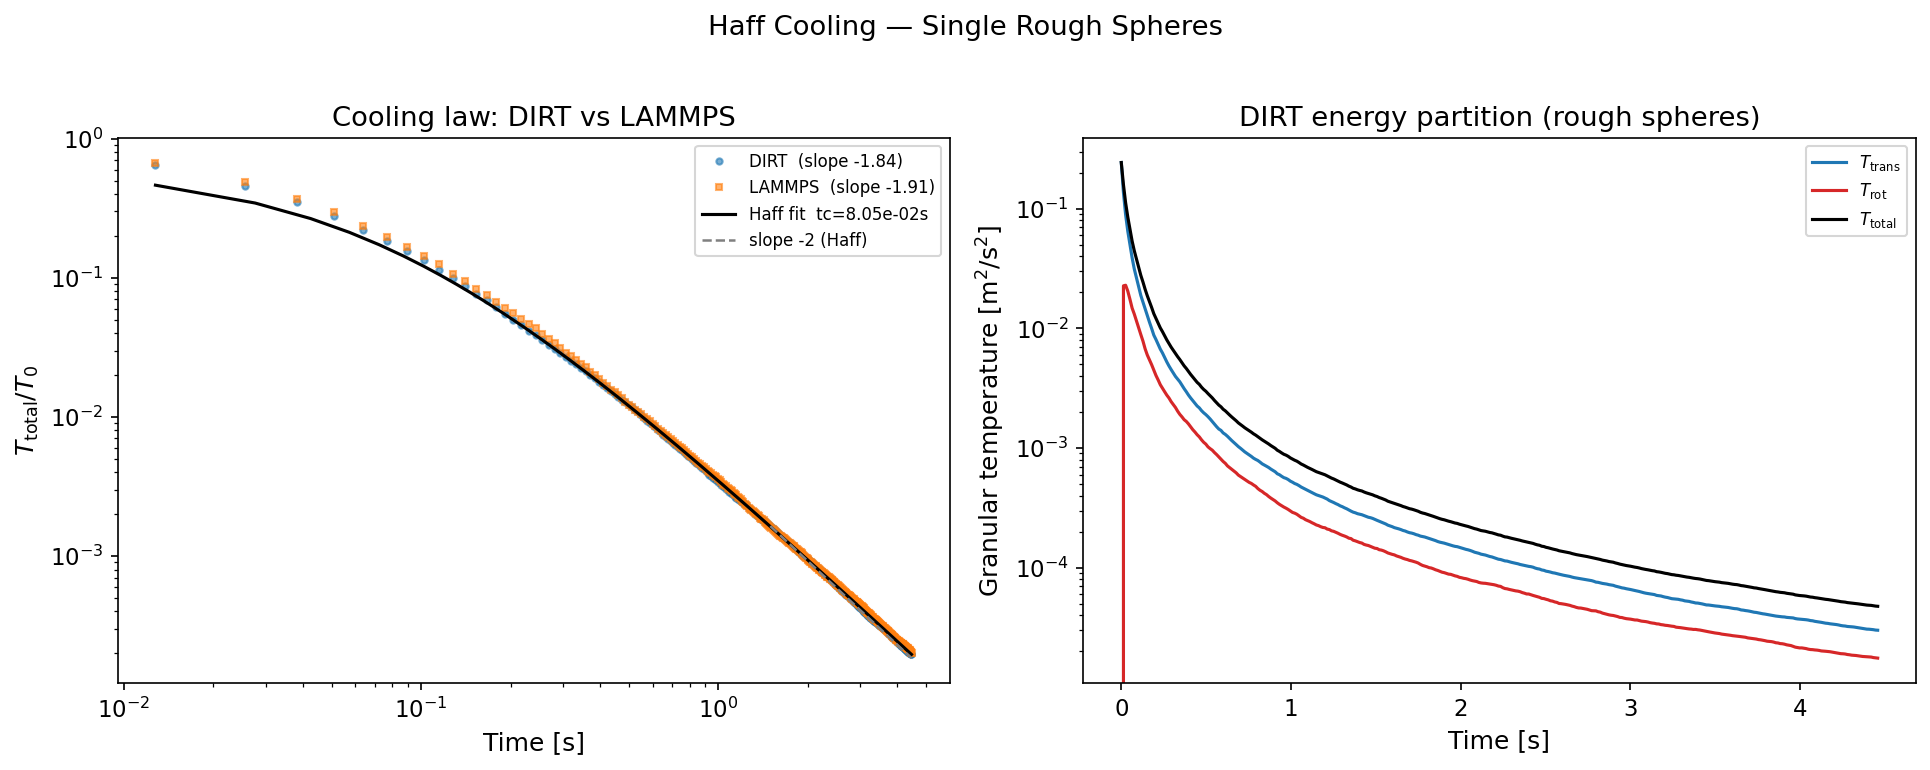
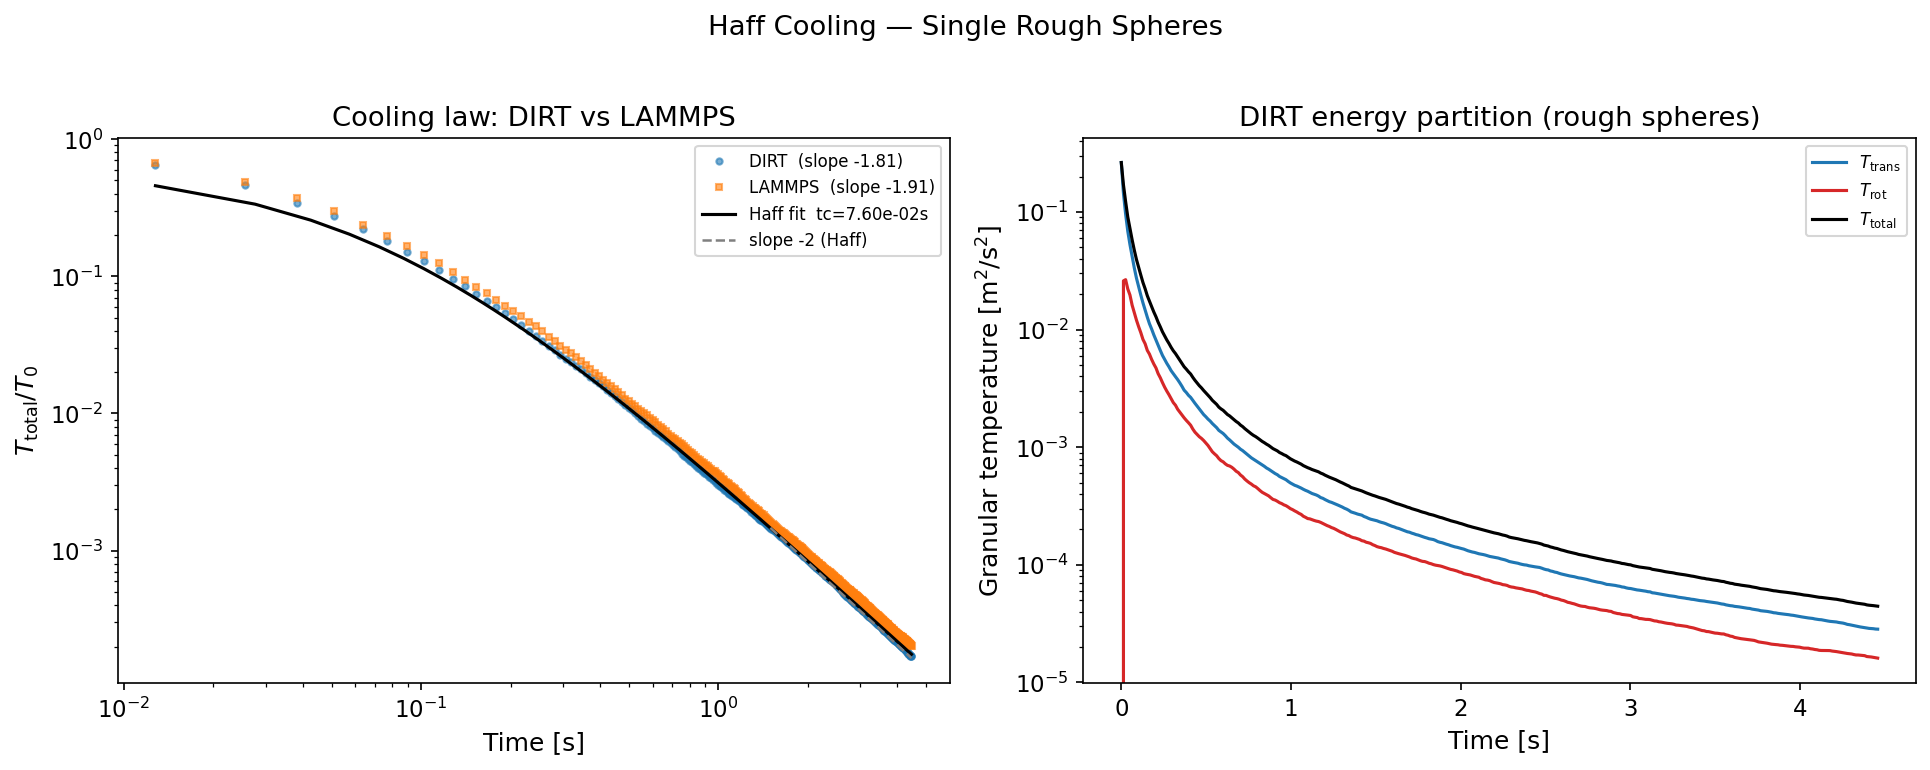
Update quat flag

diff --git a/crates/dirt_granular/src/rotational.rs b/crates/dirt_granular/src/rotational.rs
@@ -18,7 +18,7 @@
 use grass_app::prelude::*;
 use grass_scheduler::prelude::*;
 
-use dirt_atom::DemAtom;
+use dirt_atom::{DemAtom, MaterialTable};
 use soil_core::{Atom, AtomDataRegistry, ParticleSimScheduleSet};
 
 /// Construct a unit quaternion `[w, x, y, z]` from a unit rotation axis and angle (radians).
@@ -55,11 +55,23 @@ impl Plugin for RotationalDynamicsPlugin {
     }
 }
 
-/// Initial half-step: advance angular velocity and update quaternion orientation.
-pub fn initial_rotation(atoms: Res<Atom>, registry: Res<AtomDataRegistry>) {
+/// Initial half-step: advance angular velocity and (optionally) update quaternion orientation.
+///
+/// The angular-velocity half-kick is always applied — `ω` drives tangential,
+/// rolling, and twisting friction. The quaternion orientation update is applied
+/// only when [`MaterialTable::track_orientation`] is set. For pure-sphere runs
+/// (the default) orientation is causally inert — a sphere's contact mechanics
+/// don't depend on which way it "points" — so skipping it removes a per-atom
+/// sqrt + division + sin + cos + Hamilton product with no effect on the physics.
+pub fn initial_rotation(
+    atoms: Res<Atom>,
+    registry: Res<AtomDataRegistry>,
+    material_table: Res<MaterialTable>,
+) {
     let mut dem = registry.expect_mut::<DemAtom>("initial_rotation");
     let dt = atoms.dt;
     let nlocal = atoms.nlocal as usize;
+    let track_orientation = material_table.track_orientation;
 
     for i in 0..nlocal {
         let inv_inertia = dem.inv_inertia[i];
@@ -69,16 +81,18 @@ pub fn initial_rotation(atoms: Res<Atom>, registry: Res<AtomDataRegistry>) {
         dem.omega[i][1] += 0.5 * dt * dem.torque[i][1] * inv_inertia;
         dem.omega[i][2] += 0.5 * dt * dem.torque[i][2] * inv_inertia;
 
-        let ox = dem.omega[i][0];
-        let oy = dem.omega[i][1];
-        let oz = dem.omega[i][2];
-        let omega_mag = (ox*ox + oy*oy + oz*oz).sqrt();
-        let angle = omega_mag * dt;
-        if angle > 1e-14 {
-            let inv = 1.0 / omega_mag;
-            let axis = [ox * inv, oy * inv, oz * inv];
-            let dq = quat_from_axis_angle(axis, angle);
-            dem.quaternion[i] = quat_mul(dq, dem.quaternion[i]);
+        if track_orientation {
+            let ox = dem.omega[i][0];
+            let oy = dem.omega[i][1];
+            let oz = dem.omega[i][2];
+            let omega_mag = (ox*ox + oy*oy + oz*oz).sqrt();
+            let angle = omega_mag * dt;
+            if angle > 1e-14 {
+                let inv = 1.0 / omega_mag;
+                let axis = [ox * inv, oy * inv, oz * inv];
+                let dq = quat_from_axis_angle(axis, angle);
+                dem.quaternion[i] = quat_mul(dq, dem.quaternion[i]);
+            }
         }
     }
 }
@@ -102,7 +116,7 @@ pub fn final_rotation(atoms: Res<Atom>, registry: Res<AtomDataRegistry>) {
 #[cfg(test)]
 mod tests {
     use super::*;
-    use dirt_atom::DemAtom;
+    use dirt_atom::{DemAtom, MaterialTable};
     use soil_core::{Atom, AtomDataRegistry};
     use dirt_test_utils::push_dem_test_atom;
 
@@ -129,6 +143,7 @@ mod tests {
 
         app.add_resource(atom);
         app.add_resource(registry);
+        app.add_resource(MaterialTable::new()); // track_orientation defaults false; only ω tested here
         app.add_update_system(initial_rotation, ParticleSimScheduleSet::InitialIntegration);
         app.organize_systems();
         app.run();
@@ -162,6 +177,9 @@ mod tests {
 
         app.add_resource(atom);
         app.add_resource(registry);
+        let mut mt = MaterialTable::new();
+        mt.track_orientation = true; // this test exercises the orientation update path
+        app.add_resource(mt);
         app.add_update_system(initial_rotation, ParticleSimScheduleSet::InitialIntegration);
         app.organize_systems();
         app.run();

diff --git a/crates/dirt_atom/src/lib.rs b/crates/dirt_atom/src/lib.rs
@@ -154,6 +154,18 @@ pub struct DemConfig {
     /// Twisting friction model: "constant" (default) or "sds".
     #[serde(default = "default_twisting_model")]
     pub twisting_model: String,
+    /// Track per-sphere orientation (quaternion). Default `false`.
+    ///
+    /// A sphere is rotationally symmetric, so its orientation never enters any
+    /// contact force law (those depend on angular velocity `ω`, not absolute
+    /// orientation). The per-sphere quaternion is therefore causally inert for
+    /// pure-sphere runs, and integrating it each step (sqrt + division + sin +
+    /// cos + Hamilton product per atom) is pure overhead. Leave this `false`
+    /// unless something downstream actually reads the orientation (e.g. a future
+    /// surface-marker visualization). Non-spherical bodies track orientation in
+    /// their own `BodyData`, not here, so this flag does not affect them.
+    #[serde(default)]
+    pub track_orientation: bool,
 }
 
 // ── MaterialTable — per-material and per-pair precomputed properties ────────
@@ -205,6 +217,8 @@ pub struct MaterialTable {
     pub rolling_model: String,
     /// Twisting friction model: "constant" or "sds".
     pub twisting_model: String,
+    /// Track per-sphere orientation (quaternion). Default `false`; see [`DemConfig::track_orientation`].
+    pub track_orientation: bool,
     /// Per-material rolling spring stiffness (SDS model).
     pub rolling_stiffness: Vec<f64>,
     /// Per-material rolling damping coefficient (SDS model).
@@ -258,6 +272,7 @@ impl MaterialTable {
             adhesion_model: "jkr".to_string(),
             rolling_model: "constant".to_string(),
             twisting_model: "constant".to_string(),
+            track_orientation: false,
             rolling_stiffness: Vec::new(),
             rolling_damping: Vec::new(),
             twisting_stiffness: Vec::new(),
@@ -633,6 +648,7 @@ friction = 0.4
         material_table.adhesion_model = dem_config.adhesion_model.clone();
         material_table.rolling_model = dem_config.rolling_model.clone();
         material_table.twisting_model = dem_config.twisting_model.clone();
+        material_table.track_orientation = dem_config.track_orientation;
 
         if let Some(ref materials) = dem_config.materials {
             for mat in materials {